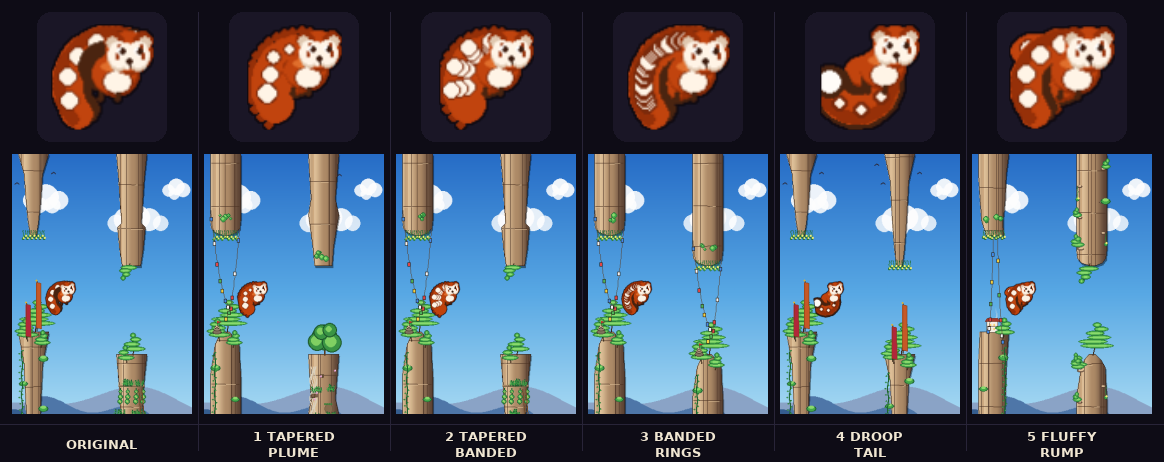
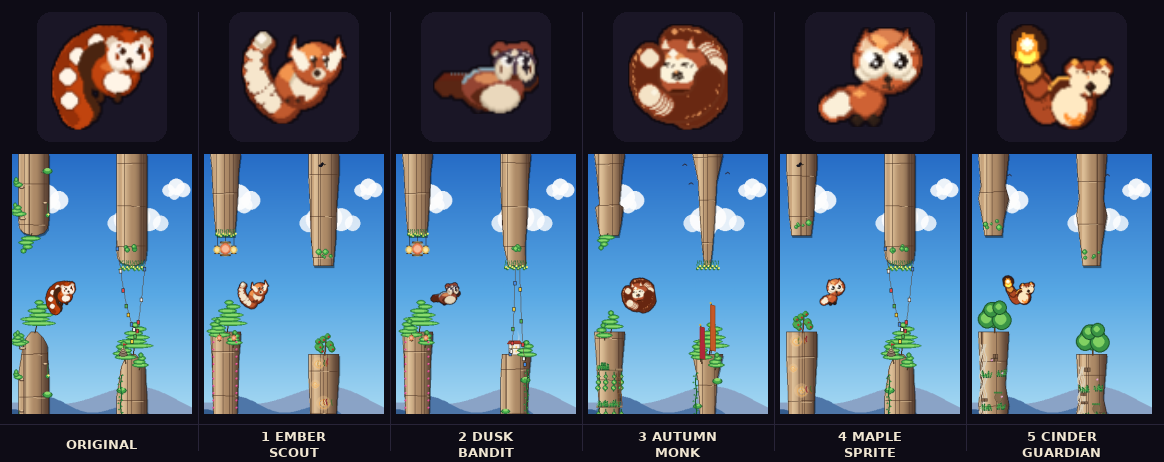
red panda: final comparison figure (ORIGINAL + 5 full redesigns, R3 finals)

diff --git a/tools/render_red_panda_compare.py b/tools/render_red_panda_compare.py
@@ -1,4 +1,4 @@
-"""Final comparison figure: ORIGINAL production red panda + 5 back redesigns.
+"""Final comparison figure: ORIGINAL production red panda + 5 full redesigns.
 
 Each column: pip mid-flight in a real gameplay scene (day), labeled.
 Saves to docs/store_redesign/animal/red_panda/final_comparison.png.
@@ -17,12 +17,12 @@ from game.animal_red_panda import get_red_panda
 from tools.red_panda_candidates import design_1, design_2, design_3, design_4, design_5
 
 SOURCES = [
-    ("ORIGINAL",      get_red_panda),
-    ("1 TAPERED\nPLUME",   design_1.build),
-    ("2 TAPERED\nBANDED",  design_2.build),
-    ("3 BANDED\nRINGS",    design_3.build),
-    ("4 DROOP\nTAIL",      design_4.build),
-    ("5 FLUFFY\nRUMP",     design_5.build),
+    ("ORIGINAL",         get_red_panda),
+    ("1 EMBER\nSCOUT",   design_1.build),
+    ("2 DUSK\nBANDIT",   design_2.build),
+    ("3 AUTUMN\nMONK",   design_3.build),
+    ("4 MAPLE\nSPRITE",  design_4.build),
+    ("5 CINDER\nGUARDIAN", design_5.build),
 ]
 
 PW, PH   = 180, 260
@@ -35,7 +35,6 @@ TOTAL_W = PAD + len(SOURCES) * (PW + PAD)
 TOTAL_H = PAD + HERO_BOX + PAD + PH + PAD + LABEL_H
 
 font_lg = pygame.font.SysFont("dejavusans", 13, bold=True)
-font_sm = pygame.font.SysFont("dejavusans", 11)
 
 
 def _label(surf, text, rect_x, rect_w, y, color=(240, 230, 210)):
@@ -53,7 +52,6 @@ def _label(surf, text, rect_x, rect_w, y, color=(240, 230, 210)):
 canvas = pygame.Surface((TOTAL_W, TOTAL_H))
 canvas.fill(BG)
 
-# Thin separator line under the header area.
 pygame.draw.line(canvas, (40, 36, 56), (0, PAD + HERO_BOX + PAD + PH + PAD - 2),
                  (TOTAL_W, PAD + HERO_BOX + PAD + PH + PAD - 2), 1)
 
